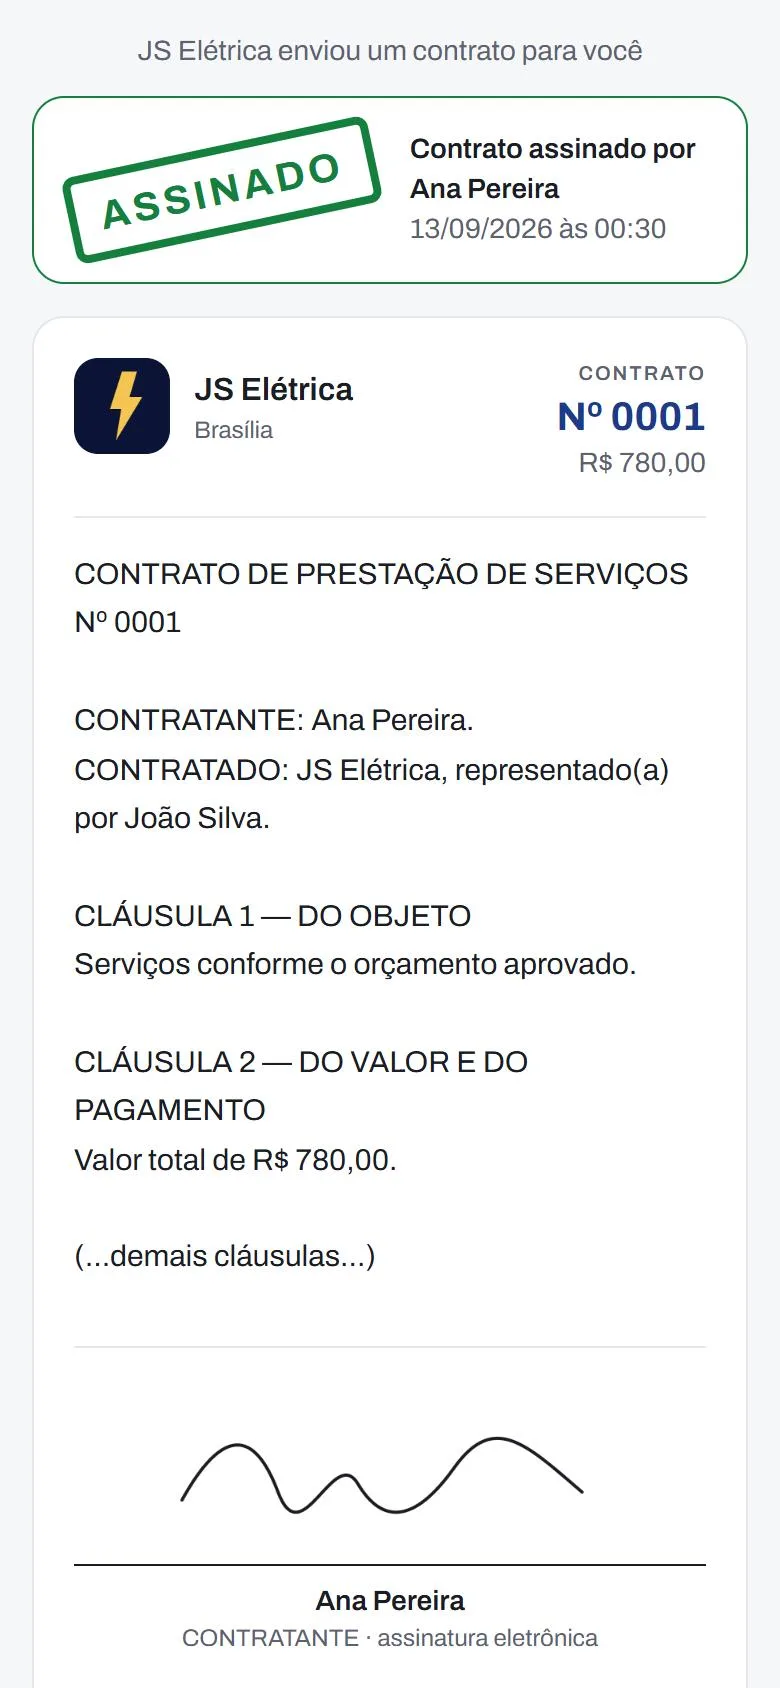
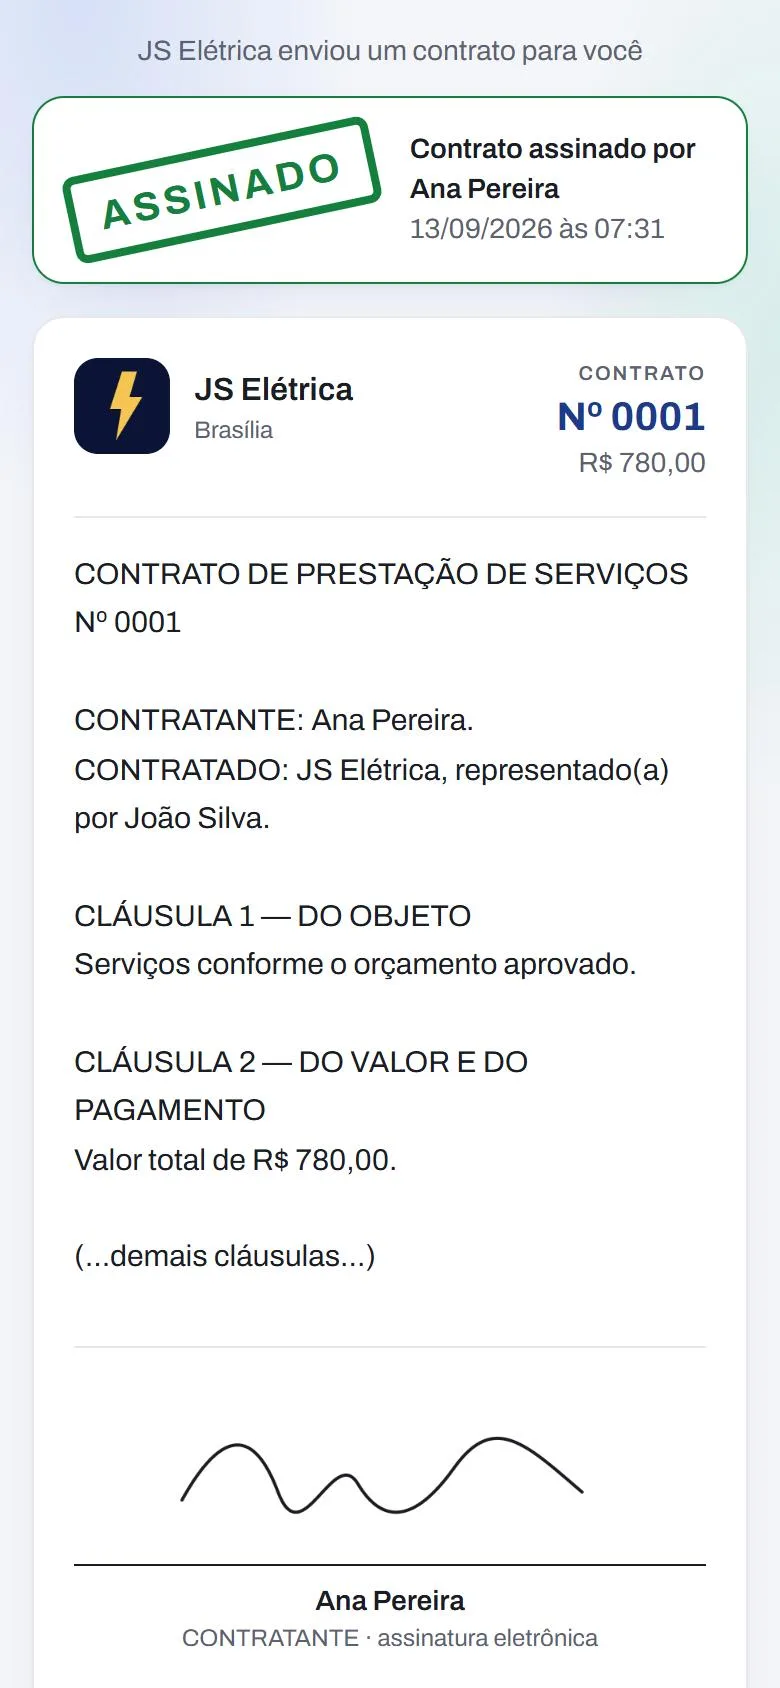
feat: visual vidro (glass) no app e no site, telas do app recapturadas
- App: fundo com luzes suaves, cards/listas/janelas/barras fixas e abas em vidro (backdrop-blur), botões em degradê,
  campos e chips translúcidos; estados ativos (chip/opção) legíveis sobre o vidro
- Site: cards de vidro, planos em vidro, fundo com luzes, cabeçalho translúcido
- 11 telas do app recapturadas com o visual novo (site/public/app/*.webp)

diff --git a/app/src/index.css b/app/src/index.css
@@ -163,3 +163,89 @@
 .barra-crescer { transform-origin: bottom; animation: crescer 0.5s cubic-bezier(0.2, 0.8, 0.2, 1) both; }
 @keyframes crescer { from { transform: scaleY(0); } to { transform: scaleY(1); } }
 @media (prefers-reduced-motion: reduce) { .barra-crescer { animation: none; } }
+
+/* ===== V4: efeito vidro (glass) e fundo com luz ===== */
+@layer base {
+  body {
+    background-color: #f3f5f9;
+    background-image:
+      radial-gradient(60% 50% at 10% 0%, rgba(37, 99, 235, 0.14), transparent 60%),
+      radial-gradient(50% 45% at 100% 20%, rgba(16, 185, 129, 0.12), transparent 60%),
+      radial-gradient(45% 40% at 60% 100%, rgba(99, 102, 241, 0.10), transparent 60%);
+    background-attachment: fixed;
+    background-repeat: no-repeat;
+  }
+}
+@layer components {
+  .vidro {
+    background: rgba(255, 255, 255, 0.62);
+    backdrop-filter: blur(18px) saturate(1.5);
+    -webkit-backdrop-filter: blur(18px) saturate(1.5);
+    border: 1px solid rgba(255, 255, 255, 0.75);
+    box-shadow: 0 1px 2px rgba(26, 29, 35, 0.04), 0 16px 40px -24px rgba(30, 58, 138, 0.35);
+  }
+  .vidro-forte {
+    background: rgba(255, 255, 255, 0.82);
+    backdrop-filter: blur(24px) saturate(1.6);
+    -webkit-backdrop-filter: blur(24px) saturate(1.6);
+    border: 1px solid rgba(255, 255, 255, 0.85);
+    box-shadow: 0 30px 70px -30px rgba(30, 58, 138, 0.45);
+  }
+  .barra-fixa {
+    background: rgba(255, 255, 255, 0.78);
+    backdrop-filter: blur(20px) saturate(1.5);
+    -webkit-backdrop-filter: blur(20px) saturate(1.5);
+    border-top: 1px solid rgba(255, 255, 255, 0.8);
+    box-shadow: 0 -10px 30px -22px rgba(30, 58, 138, 0.4);
+  }
+  .cartao {
+    @apply rounded-2xl;
+    background: rgba(255, 255, 255, 0.62);
+    backdrop-filter: blur(18px) saturate(1.5);
+    -webkit-backdrop-filter: blur(18px) saturate(1.5);
+    border: 1px solid rgba(255, 255, 255, 0.75);
+    box-shadow: 0 1px 2px rgba(26, 29, 35, 0.04), 0 16px 40px -24px rgba(30, 58, 138, 0.35);
+  }
+  .cartao-destaque {
+    @apply rounded-2xl text-white;
+    background: linear-gradient(135deg, #1e40af 0%, #2563eb 55%, #10b981 160%);
+    box-shadow: 0 18px 40px -18px rgba(37, 99, 235, 0.6);
+  }
+  .botao-primario {
+    @apply rounded-xl;
+    background: linear-gradient(135deg, #1e40af 0%, #2563eb 100%);
+    box-shadow: 0 10px 24px -12px rgba(37, 99, 235, 0.65);
+  }
+  .botao-primario:hover { background: linear-gradient(135deg, #1b399c 0%, #1d4ed8 100%); }
+  .botao-secundario {
+    @apply rounded-xl;
+    background: rgba(255, 255, 255, 0.7);
+    border-color: rgba(255, 255, 255, 0.9);
+    backdrop-filter: blur(10px);
+    -webkit-backdrop-filter: blur(10px);
+  }
+  .campo {
+    @apply rounded-xl;
+    background: rgba(255, 255, 255, 0.75);
+    border-color: rgba(228, 231, 236, 0.9);
+  }
+  .campo:focus { box-shadow: 0 0 0 3px rgba(37, 99, 235, 0.18); }
+  .chip {
+    background: rgba(255, 255, 255, 0.65);
+    backdrop-filter: blur(10px);
+    -webkit-backdrop-filter: blur(10px);
+  }
+  .opcao {
+    background: rgba(255, 255, 255, 0.65);
+    @apply rounded-xl;
+  }
+  .documento {
+    border-color: rgba(228, 231, 236, 0.9);
+    box-shadow: 0 1px 2px rgba(26, 29, 35, 0.04), 0 12px 32px -24px rgba(30, 58, 138, 0.3);
+  }
+}
+/* Estados ativos vencem o fundo de vidro */
+@layer components {
+  .chip-ativo { background: linear-gradient(135deg, #1e40af, #2563eb) !important; color: #fff !important; border-color: transparent !important; }
+  .opcao-ativa { background: #dce4f7 !important; border-color: #1e3a8a !important; color: #1e3a8a !important; }
+}

diff --git a/site/src/styles/global.css b/site/src/styles/global.css
@@ -301,3 +301,46 @@ details.faq[open] .resposta { animation: surgir-faq 0.3s ease-out; }
   .marquee-galeria { overflow-x: auto; mask-image: none; padding-left: 1rem; padding-right: 1rem; }
   .marquee-galeria > ul { animation: none; }
 }
+
+/* ===== Vidro (glass) no site ===== */
+@layer base {
+  body {
+    background-color: #f3f5f9;
+    background-image:
+      radial-gradient(55% 45% at 8% 0%, rgba(37, 99, 235, 0.16), transparent 60%),
+      radial-gradient(45% 40% at 100% 18%, rgba(16, 185, 129, 0.14), transparent 60%),
+      radial-gradient(40% 35% at 55% 100%, rgba(99, 102, 241, 0.10), transparent 60%);
+    background-attachment: fixed;
+    background-repeat: no-repeat;
+  }
+}
+@layer components {
+  .cartao {
+    background: rgba(255, 255, 255, 0.6);
+    backdrop-filter: blur(18px) saturate(1.5);
+    -webkit-backdrop-filter: blur(18px) saturate(1.5);
+    border: 1px solid rgba(255, 255, 255, 0.8);
+    box-shadow: 0 1px 2px rgba(26, 29, 35, 0.04), 0 20px 50px -30px rgba(30, 58, 138, 0.4);
+  }
+  .cartao-destaque-plano {
+    background: rgba(255, 255, 255, 0.75);
+    backdrop-filter: blur(20px) saturate(1.6);
+    -webkit-backdrop-filter: blur(20px) saturate(1.6);
+    border: 2px solid rgba(37, 99, 235, 0.6);
+    box-shadow: 0 30px 60px -30px rgba(37, 99, 235, 0.45);
+  }
+  .chip {
+    background: rgba(255, 255, 255, 0.65);
+    backdrop-filter: blur(10px);
+    -webkit-backdrop-filter: blur(10px);
+  }
+  .botao-secundario {
+    background: rgba(255, 255, 255, 0.7);
+    border-color: rgba(255, 255, 255, 0.9);
+    backdrop-filter: blur(10px);
+    -webkit-backdrop-filter: blur(10px);
+  }
+}
+header.sticky { background: rgba(255, 255, 255, 0.6) !important; border-color: rgba(255, 255, 255, 0.8) !important; }
+.telefone > .tela { box-shadow: inset 0 0 0 1px rgba(255,255,255,0.4); }
+.chip-ativo { background: linear-gradient(135deg, #1e40af, #2563eb) !important; color: #fff !important; border-color: transparent !important; }

diff --git a/app/src/componentes/EscolherModelo.tsx b/app/src/componentes/EscolherModelo.tsx
@@ -33,8 +33,8 @@ export default function EscolherModelo({ orcamento, logo, modeloInicial, ocupado
   }, [aoFechar]);
 
   return createPortal(
-    <div className="fixed inset-0 z-50 flex items-end justify-center bg-tinta/60 sm:items-center sm:p-4" onClick={(e) => e.target === e.currentTarget && !ocupado && aoFechar()}>
-      <div role="dialog" aria-modal="true" aria-labelledby="mod-t" className="flex max-h-[94dvh] w-full max-w-lg flex-col rounded-t-3xl bg-fundo shadow-2xl sm:rounded-3xl">
+    <div className="fixed inset-0 z-50 flex items-end justify-center bg-tinta/40 backdrop-blur-sm sm:items-center sm:p-4" onClick={(e) => e.target === e.currentTarget && !ocupado && aoFechar()}>
+      <div role="dialog" aria-modal="true" aria-labelledby="mod-t" className="flex max-h-[94dvh] w-full max-w-lg flex-col vidro-forte rounded-t-3xl sm:rounded-3xl">
         <header className="flex items-center justify-between px-5 pt-4">
           <h2 id="mod-t" className="text-lg font-semibold">
             Como o cliente vai ver
@@ -74,7 +74,7 @@ export default function EscolherModelo({ orcamento, logo, modeloInicial, ocupado
           </div>
         </div>
 
-        <footer className="space-y-2 border-t border-pauta bg-folha p-4" style={{ paddingBottom: "calc(1rem + env(safe-area-inset-bottom))" }}>
+        <footer className="space-y-2 border-t border-white/60 bg-folha/60 p-4" style={{ paddingBottom: "calc(1rem + env(safe-area-inset-bottom))" }}>
           <button type="button" onClick={() => aoEnviar(modelo)} disabled={ocupado} className="botao-primario">
             <IconeWhatsapp /> {ocupado ? "Enviando…" : textoEnviar}
           </button>

diff --git a/app/src/paginas/DetalheOrcamento.tsx b/app/src/paginas/DetalheOrcamento.tsx
@@ -235,10 +235,10 @@ export default function DetalheOrcamento() {
         </div>
       )}
 
-      <div className="fixed inset-x-0 bottom-0 border-t border-pauta bg-folha p-4">
+      <div className="fixed inset-x-0 bottom-0 barra-fixa p-4">
         <div className="mx-auto max-w-[560px] space-y-2">
           {aviso && (
-            <p role="status" className="rounded-[10px] bg-[#E6F4EA] px-3 py-2 text-center text-sm font-medium text-pago">
+            <p role="status" className="rounded-xl bg-[#E6F4EA]/80 px-3 py-2 text-center text-sm font-medium text-pago backdrop-blur">
               {aviso}
             </p>
           )}
@@ -328,12 +328,12 @@ export default function DetalheOrcamento() {
       {marcandoPago &&
         createPortal(
           <div
-            className="fixed inset-0 z-50 flex items-end justify-center bg-tinta/50 sm:items-center sm:p-4"
+            className="fixed inset-0 z-50 flex items-end justify-center bg-tinta/40 backdrop-blur-sm sm:items-center sm:p-4"
             onClick={(e) => {
               if (e.target === e.currentTarget && !ocupado) setMarcandoPago(false);
             }}
           >
-            <div role="dialog" aria-modal="true" aria-labelledby="pago-titulo" className="w-full max-w-md rounded-t-2xl bg-folha p-5 shadow-xl sm:rounded-2xl">
+            <div role="dialog" aria-modal="true" aria-labelledby="pago-titulo" className="w-full max-w-md vidro-forte rounded-t-2xl p-5 sm:rounded-2xl">
               <h2 id="pago-titulo" className="text-xl font-semibold">
                 Marcar como pago
               </h2>

diff --git a/app/src/componentes/InstalarApp.tsx b/app/src/componentes/InstalarApp.tsx
@@ -75,7 +75,7 @@ export default function InstalarApp({ compacto = false }: { compacto?: boolean }
     <>
       <section
         aria-labelledby="instalar-titulo"
-        className={`documento flex items-center gap-3 ${compacto ? "p-3" : "p-4"}`}
+        className={`cartao flex items-center gap-3 ${compacto ? "p-3" : "p-4"}`}
       >
         <img src="/icones/icone-192.png" alt="" width={44} height={44} className="h-11 w-11 shrink-0 rounded-[10px]" />
         <div className="min-w-0 flex-1">
@@ -99,7 +99,7 @@ export default function InstalarApp({ compacto = false }: { compacto?: boolean }
       {guiaIphone &&
         createPortal(
           <div
-            className="fixed inset-0 z-50 flex items-end justify-center bg-tinta/50 sm:items-center sm:p-4"
+            className="fixed inset-0 z-50 flex items-end justify-center bg-tinta/40 backdrop-blur-sm sm:items-center sm:p-4"
             onClick={(e) => {
               if (e.target === e.currentTarget) setGuiaIphone(false);
             }}
@@ -108,7 +108,7 @@ export default function InstalarApp({ compacto = false }: { compacto?: boolean }
               role="dialog"
               aria-modal="true"
               aria-labelledby="guia-titulo"
-              className="w-full max-w-md rounded-t-2xl bg-folha p-5 shadow-xl sm:rounded-2xl"
+              className="w-full max-w-md vidro-forte rounded-t-2xl p-5 sm:rounded-2xl"
             >
               <h2 id="guia-titulo" className="text-xl font-semibold">
                 Instalar no iPhone

diff --git a/app/src/paginas/Catalogo.tsx b/app/src/paginas/Catalogo.tsx
@@ -119,7 +119,7 @@ export default function Catalogo() {
       />
 
       {aviso && (
-        <p role="status" className="mt-3 rounded-xl bg-[#E6F4EA] px-3 py-2 text-center text-sm font-medium text-pago">
+        <p role="status" className="mt-3 rounded-xl bg-[#E6F4EA]/80 px-3 py-2 text-center text-sm font-medium text-pago backdrop-blur">
           {aviso}
         </p>
       )}
@@ -176,8 +176,8 @@ export default function Catalogo() {
       {carregando && <p className="mt-3 text-center text-sm text-grafite">Carregando…</p>}
 
       {editando && (
-        <div className="fixed inset-0 z-50 flex items-end justify-center bg-tinta/50 sm:items-center sm:p-4" onClick={(e) => e.target === e.currentTarget && !ocupado && setEditando(null)}>
-          <form onSubmit={salvar} noValidate role="dialog" aria-modal="true" aria-labelledby="ed-t" className="max-h-[92dvh] w-full max-w-md overflow-y-auto rounded-t-2xl bg-folha p-5 shadow-xl sm:rounded-2xl">
+        <div className="fixed inset-0 z-50 flex items-end justify-center bg-tinta/40 backdrop-blur-sm sm:items-center sm:p-4" onClick={(e) => e.target === e.currentTarget && !ocupado && setEditando(null)}>
+          <form onSubmit={salvar} noValidate role="dialog" aria-modal="true" aria-labelledby="ed-t" className="max-h-[92dvh] w-full max-w-md overflow-y-auto vidro-forte rounded-t-2xl p-5 sm:rounded-2xl">
             <h2 id="ed-t" className="text-xl font-semibold">
               {editando === "novo" ? "Novo item" : "Editar item"}
             </h2>

diff --git a/app/src/componentes/Sino.tsx b/app/src/componentes/Sino.tsx
@@ -38,8 +38,8 @@ export default function Sino({ notificacoes, naoVistas, aoAbrir }: Props) {
 
       {aberto &&
         createPortal(
-          <div className="fixed inset-0 z-50 flex items-start justify-center bg-tinta/50 sm:p-4" onClick={(e) => e.target === e.currentTarget && setAberto(false)}>
-            <div role="dialog" aria-modal="true" aria-labelledby="not-t" className="mt-0 flex max-h-[85dvh] w-full max-w-md flex-col rounded-b-3xl bg-folha shadow-2xl sm:mt-10 sm:rounded-3xl">
+          <div className="fixed inset-0 z-50 flex items-start justify-center bg-tinta/40 backdrop-blur-sm sm:p-4" onClick={(e) => e.target === e.currentTarget && setAberto(false)}>
+            <div role="dialog" aria-modal="true" aria-labelledby="not-t" className="mt-0 flex max-h-[85dvh] w-full max-w-md flex-col vidro-forte rounded-b-3xl sm:mt-10 sm:rounded-3xl">
               <header className="flex items-center justify-between px-5 pt-4">
                 <h2 id="not-t" className="text-lg font-semibold">
                   Notificações

diff --git a/app/src/paginas/Cartao.tsx b/app/src/paginas/Cartao.tsx
@@ -133,7 +133,7 @@ export default function Cartao() {
       <CabecalhoPagina titulo="Cartão de visita" voltarPara="/mais" />
 
       {aviso && (
-        <p role="status" className="mt-3 rounded-xl bg-[#E6F4EA] px-3 py-2 text-center text-sm font-medium text-pago">
+        <p role="status" className="mt-3 rounded-xl bg-[#E6F4EA]/80 px-3 py-2 text-center text-sm font-medium text-pago backdrop-blur">
           {aviso}
         </p>
       )}
@@ -199,7 +199,7 @@ export default function Cartao() {
         <p className="ajuda mt-2">As imagens usam sua logo, nome, profissão, serviços e WhatsApp. Mude os dados em Conta e em Produtos e serviços.</p>
       </section>
 
-      <div className="fixed inset-x-0 bottom-0 border-t border-pauta bg-folha p-4">
+      <div className="fixed inset-x-0 bottom-0 barra-fixa p-4">
         <div className="mx-auto flex max-w-[560px] gap-2">
           <button type="button" onClick={compartilharLink} className="botao-primario">
             <IconeCompartilhar tamanho={18} /> Compartilhar link

diff --git a/app/src/componentes/CabecalhoPagina.tsx b/app/src/componentes/CabecalhoPagina.tsx
@@ -10,7 +10,7 @@ interface Props {
 /** Cabeçalho das telas internas: seta de voltar, título e uma ação opcional à direita. */
 export default function CabecalhoPagina({ titulo, voltarPara = "/", acao }: Props) {
   return (
-    <header className="sticky top-0 z-30 -mx-4 flex min-h-14 items-center gap-2 border-b border-pauta bg-folha/95 px-2 backdrop-blur">
+    <header className="sticky top-0 z-30 -mx-4 flex min-h-14 items-center gap-2 border-b border-white/60 bg-folha/70 px-2 backdrop-blur-xl">
       <Link to={voltarPara} className="inline-flex h-11 w-11 items-center justify-center rounded-[10px] text-carbono hover:bg-carbono-claro" aria-label="Voltar">
         <svg aria-hidden="true" width="22" height="22" viewBox="0 0 24 24" fill="none" stroke="currentColor" strokeWidth="2.2" strokeLinecap="round" strokeLinejoin="round">
           <path d="M15 18l-6-6 6-6" />

diff --git a/app/src/componentes/Confirmar.tsx b/app/src/componentes/Confirmar.tsx
@@ -23,12 +23,12 @@ export default function Confirmar({ titulo, texto, textoConfirmar, perigo, ocupa
 
   return createPortal(
     <div
-      className="fixed inset-0 z-50 flex items-end justify-center bg-tinta/50 sm:items-center sm:p-4"
+      className="fixed inset-0 z-50 flex items-end justify-center bg-tinta/40 backdrop-blur-sm sm:items-center sm:p-4"
       onClick={(e) => {
         if (e.target === e.currentTarget) aoCancelar();
       }}
     >
-      <div role="alertdialog" aria-modal="true" aria-labelledby="conf-titulo" className="w-full max-w-md rounded-t-2xl bg-folha p-5 shadow-xl sm:rounded-2xl">
+      <div role="alertdialog" aria-modal="true" aria-labelledby="conf-titulo" className="w-full max-w-md vidro-forte rounded-t-2xl p-5 sm:rounded-2xl">
         <h2 id="conf-titulo" className="text-xl font-semibold">
           {titulo}
         </h2>

diff --git a/app/src/paginas/ClienteDetalhe.tsx b/app/src/paginas/ClienteDetalhe.tsx
@@ -130,7 +130,7 @@ export default function ClienteDetalhe() {
       />
 
       {aviso && (
-        <p role="status" className="mt-3 rounded-xl bg-[#E6F4EA] px-3 py-2 text-center text-sm font-medium text-pago">
+        <p role="status" className="mt-3 rounded-xl bg-[#E6F4EA]/80 px-3 py-2 text-center text-sm font-medium text-pago backdrop-blur">
           {aviso}
         </p>
       )}
@@ -237,7 +237,7 @@ export default function ClienteDetalhe() {
         </form>
       )}
 
-      <div className="fixed inset-x-0 bottom-0 border-t border-pauta bg-folha p-4">
+      <div className="fixed inset-x-0 bottom-0 barra-fixa p-4">
         <div className="mx-auto max-w-[560px] space-y-2">
           {novo || editando ? (
             <div className="flex gap-2">

diff --git a/app/src/componentes/BarraAbas.tsx b/app/src/componentes/BarraAbas.tsx
@@ -12,7 +12,7 @@ const ABAS = [
 /** Barra de navegação fixa no rodapé (telas de primeiro nível). */
 export default function BarraAbas() {
   return (
-    <nav aria-label="Seções do app" className="fixed inset-x-0 bottom-0 z-40 border-t border-pauta bg-folha/95 backdrop-blur" style={{ paddingBottom: "env(safe-area-inset-bottom)" }}>
+    <nav aria-label="Seções do app" className="fixed inset-x-0 bottom-0 z-40 barra-fixa" style={{ paddingBottom: "env(safe-area-inset-bottom)" }}>
       <ul className="mx-auto grid max-w-[560px] grid-cols-5">
         {ABAS.map(({ para, rotulo, Icone, exato }) => (
           <li key={para}>
